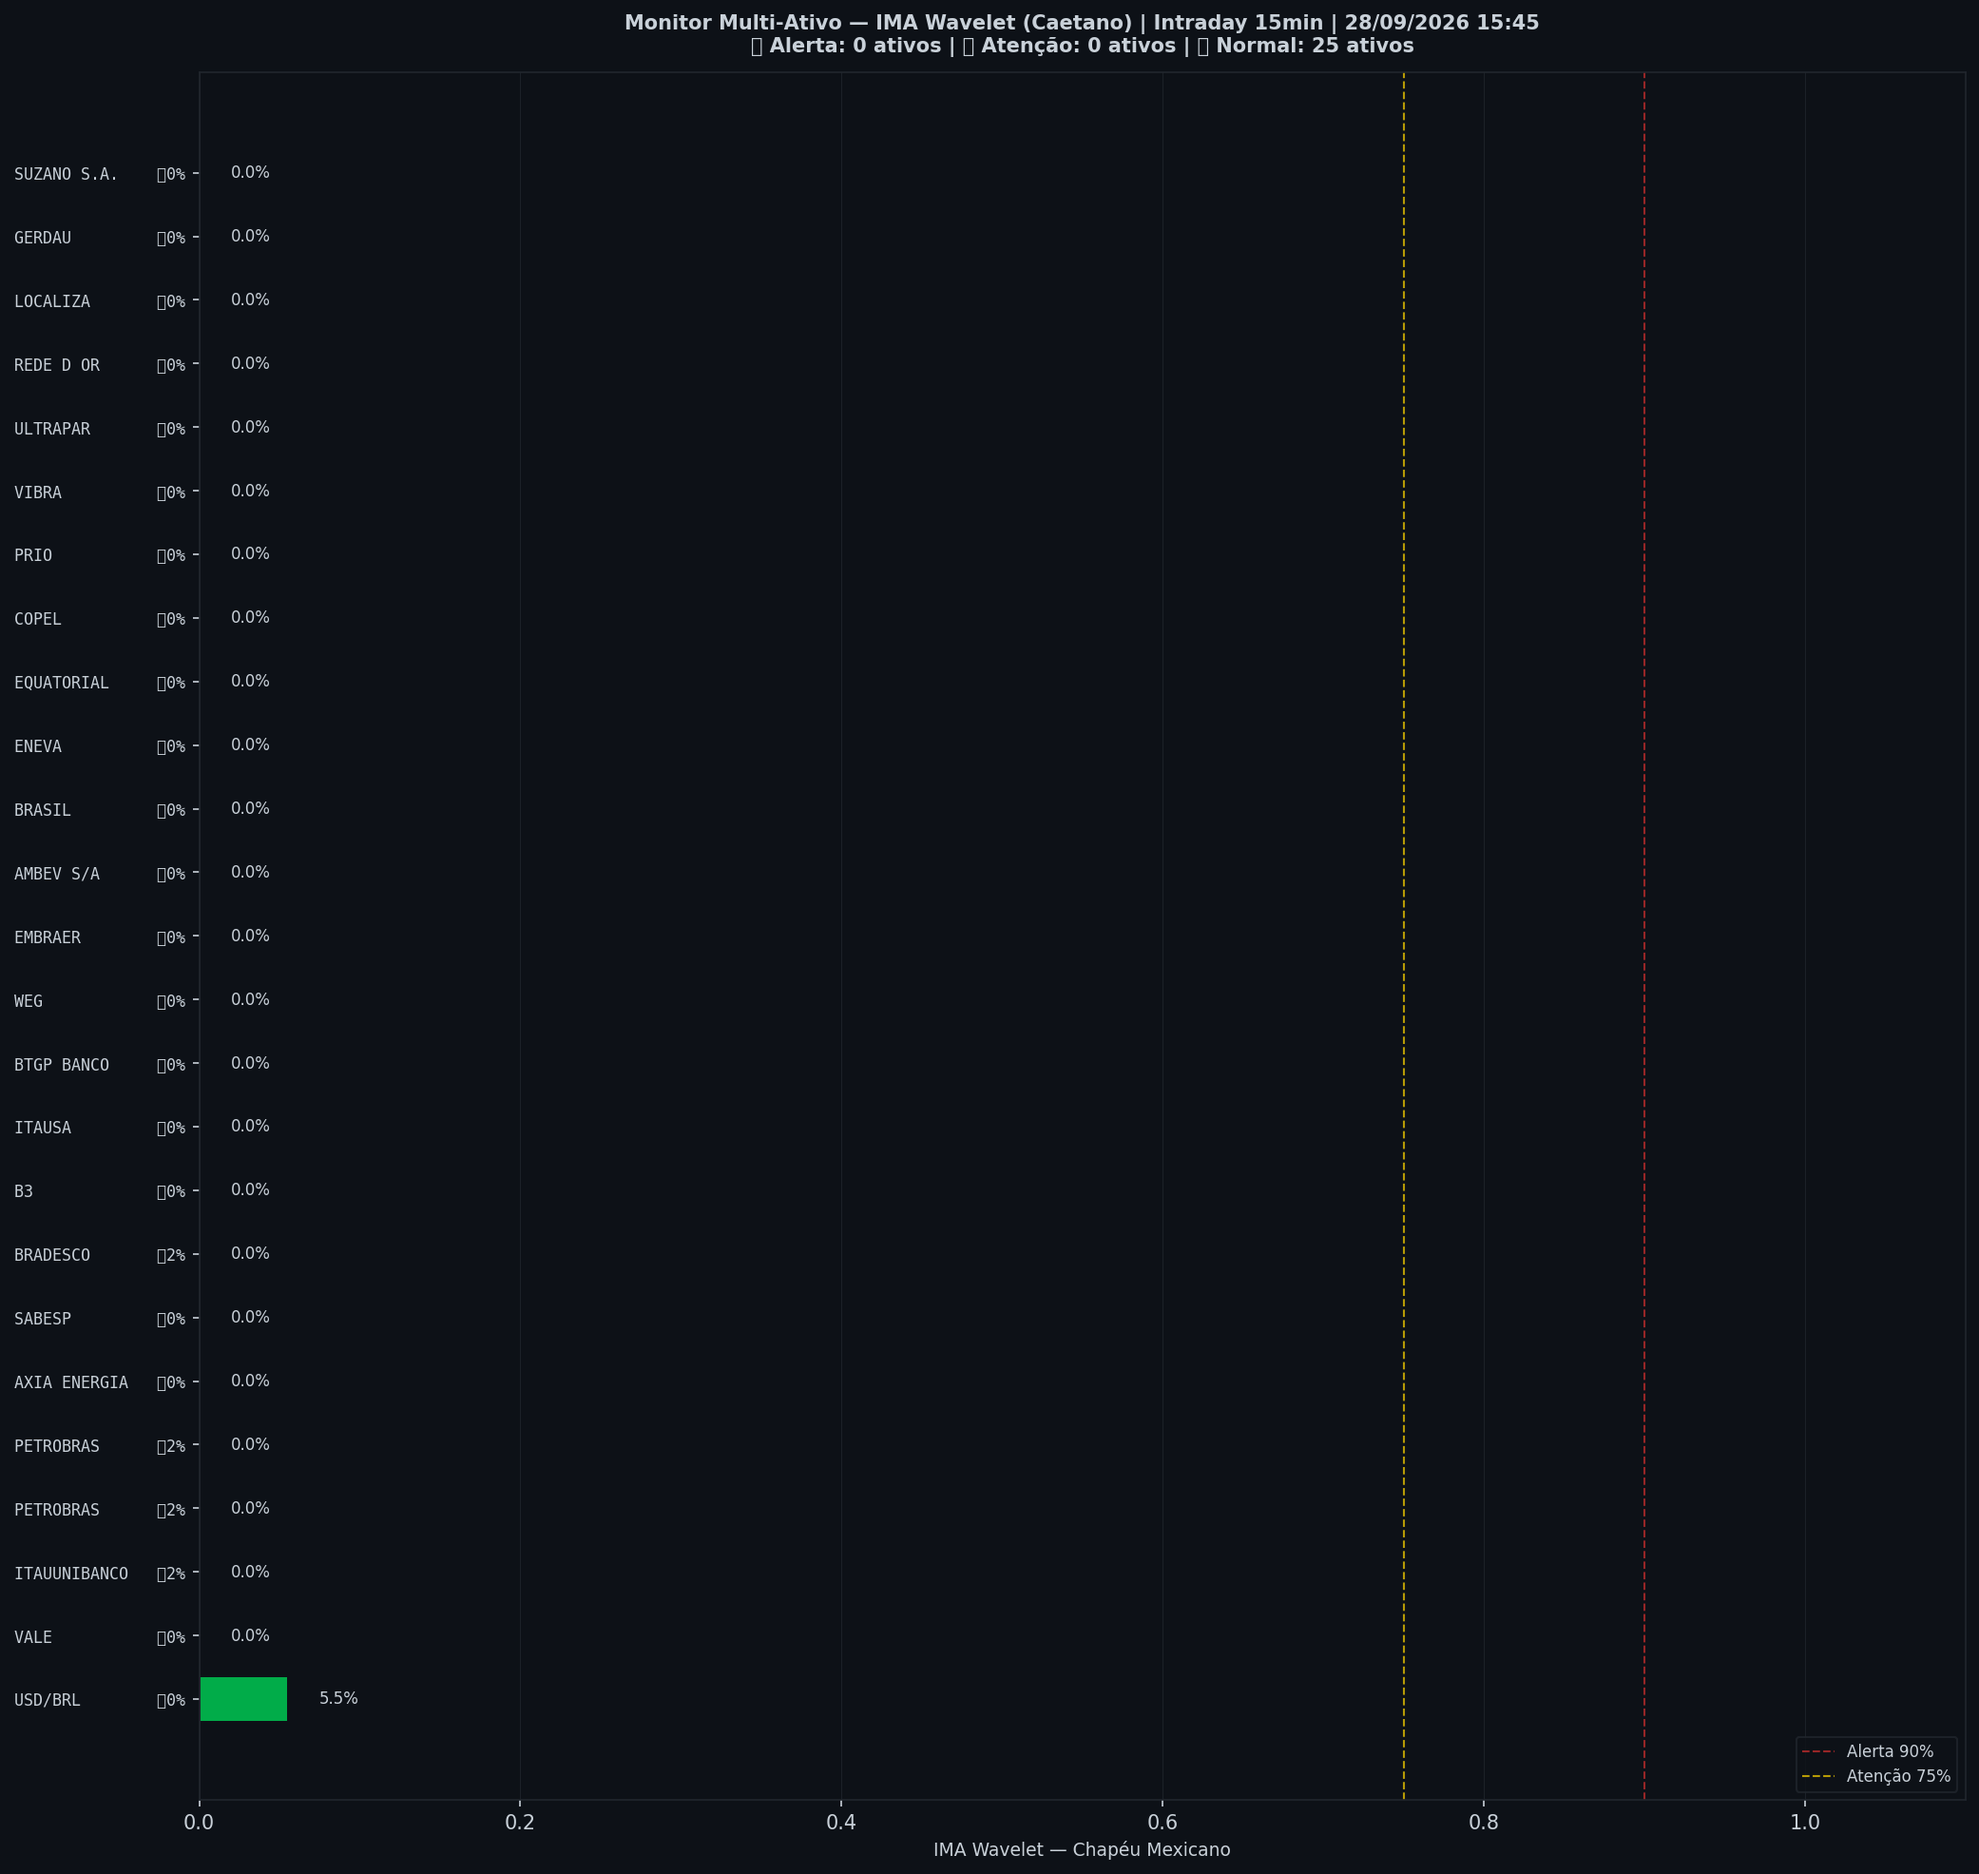
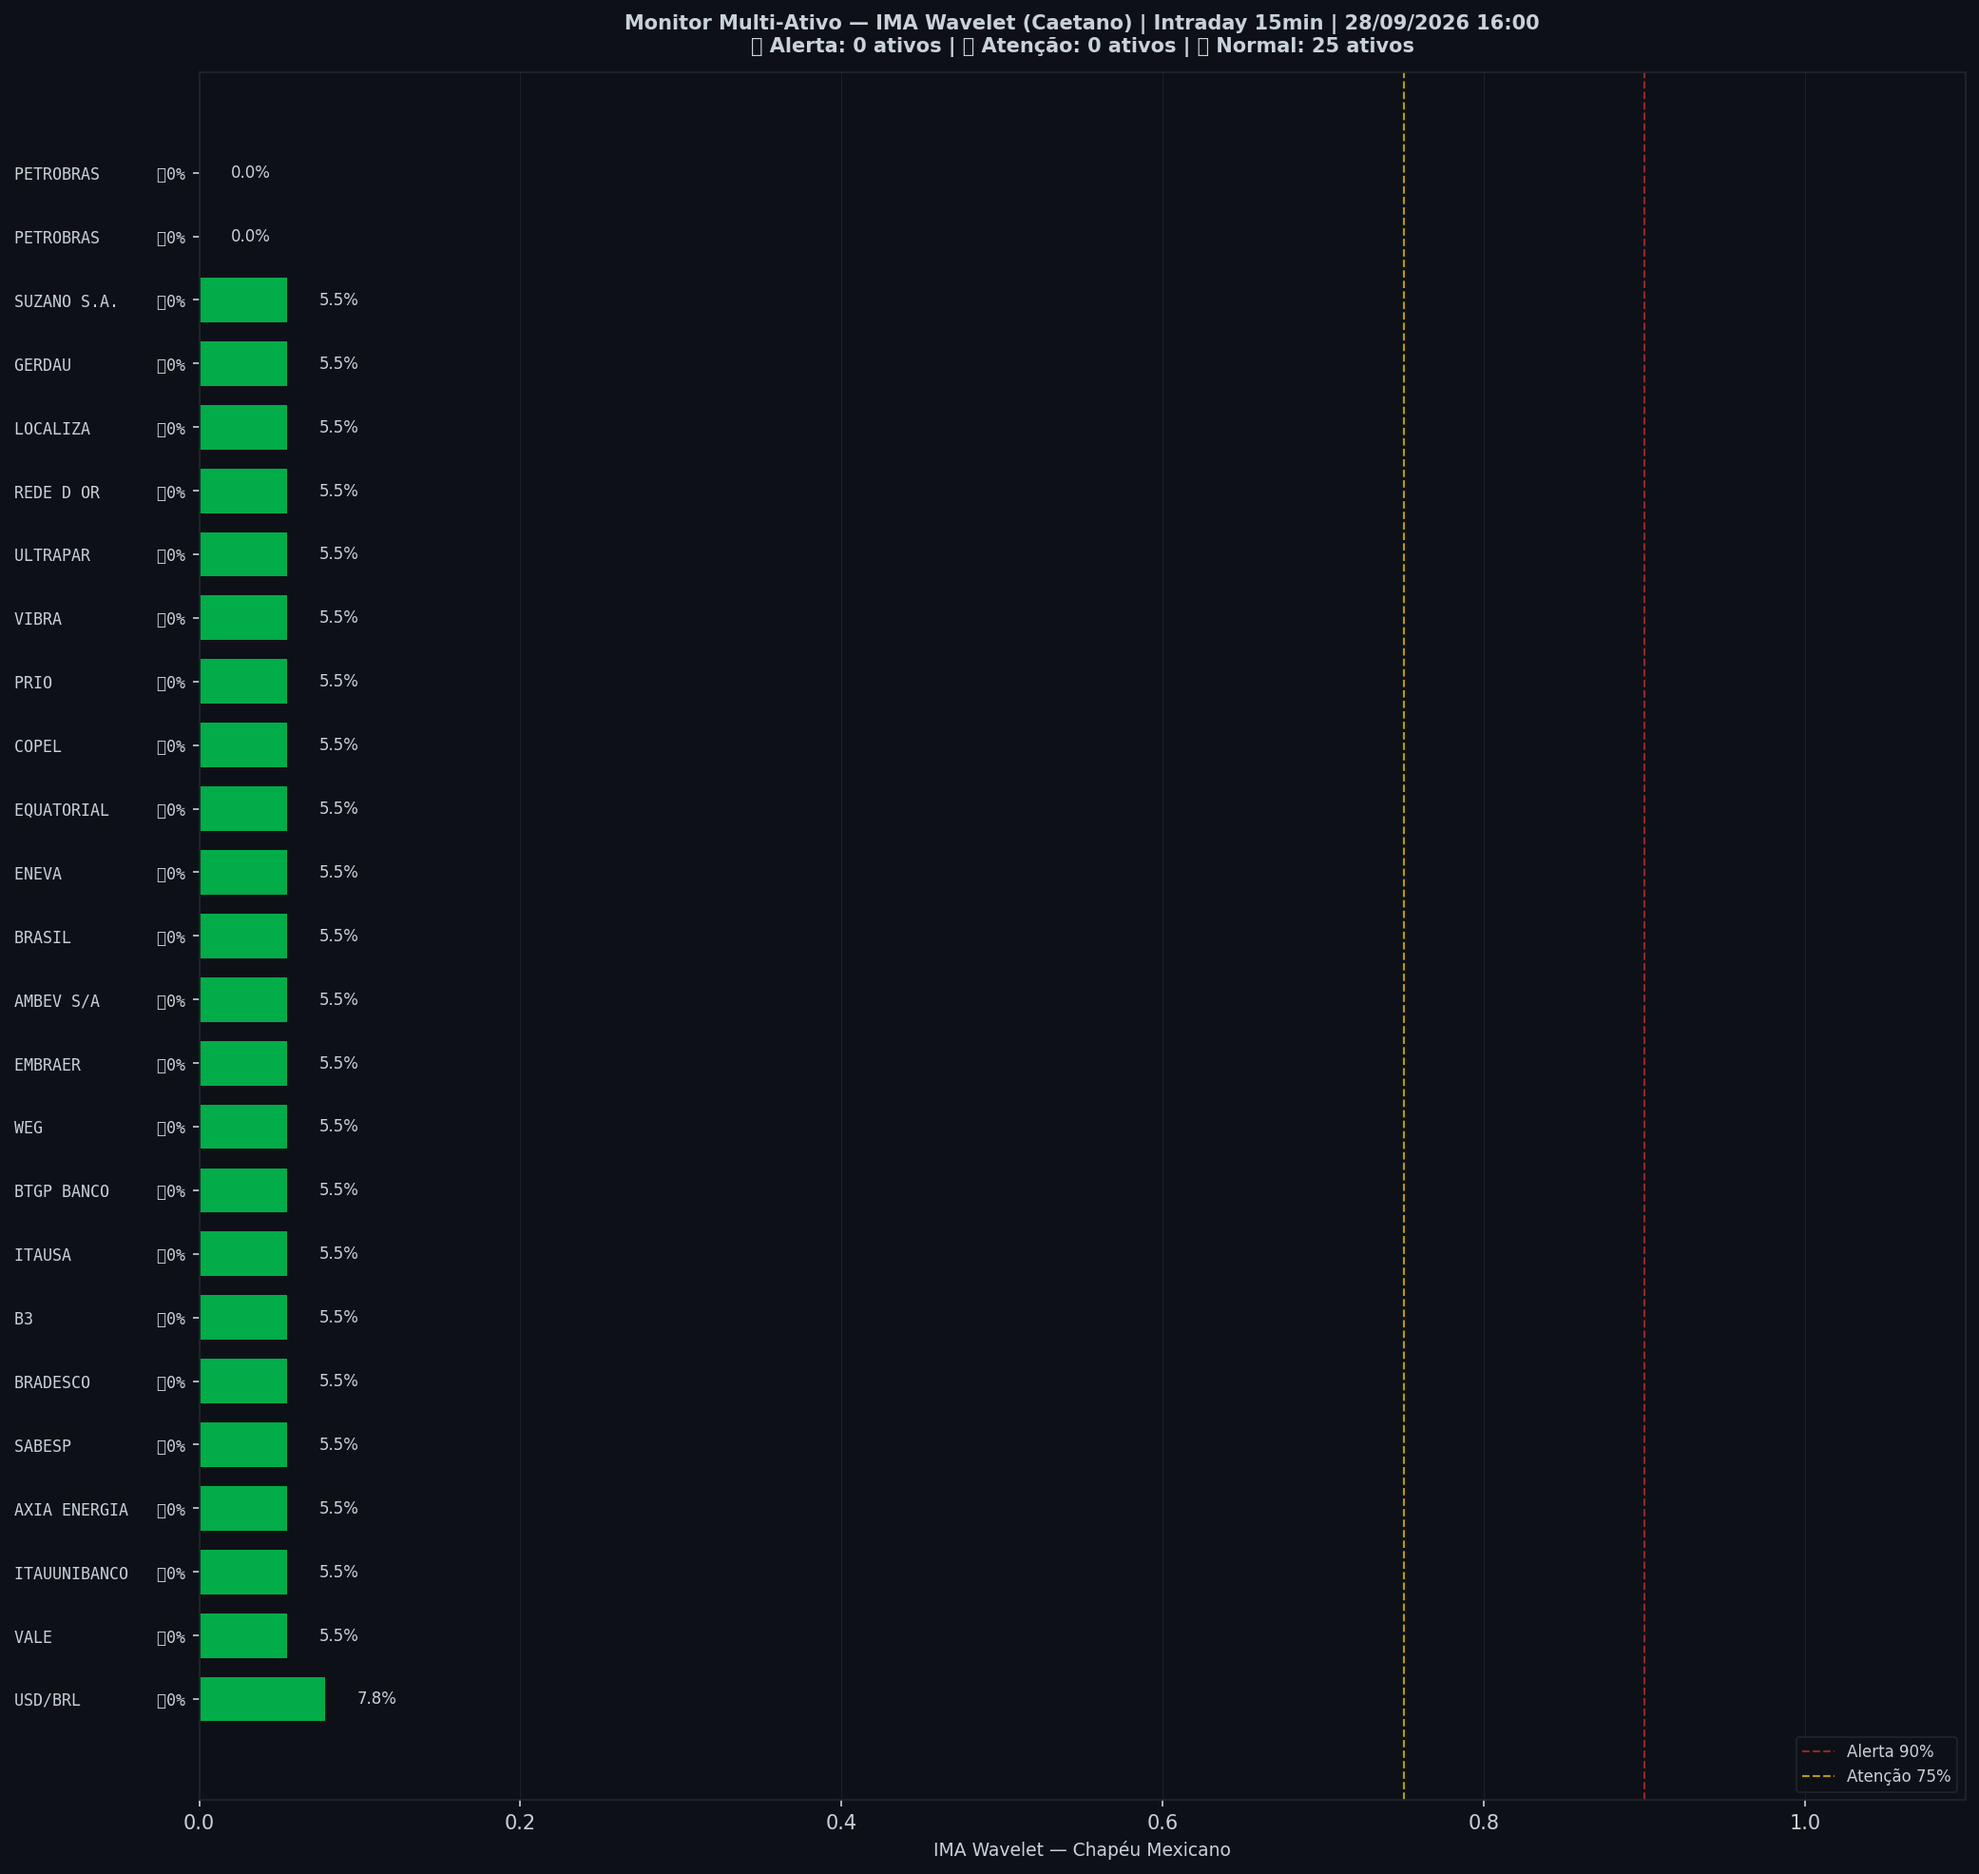
🤖 Auto: Sinal 28/09/2026 16:01

Changed region(s): [[0.0937, 0.1238, 0.1873, 0.9285], [0.0, 0.7118, 0.0624, 0.7428]]

diff --git a/content/intraday/2026-09-28.md b/content/intraday/2026-09-28.md
@@ -1,20 +1,20 @@
 ---
-title: "🟢 Intraday 28/09/2026 15:00 BRT — VERDE"
+title: "🟢 Intraday 28/09/2026 15:15 BRT — VERDE"
 date: 2026-09-28
 tags: [intraday]
 ---
 
-> [!success] 🟢 **VERDE** — Risco 0% · ＝ +0 p.p. vs leitura anterior
+> [!success] 🟢 **VERDE** — Risco 2% · ▲ +2 p.p. vs leitura anterior
 > `░░░░░░░░░░░░░░░░░░░░`
 > Mercado sem sinais relevantes de estresse.
 
 
 | Indicador | Valor |
 |---|---|
-| 🔴 ζ Crash — severidade da queda em curso | **0%** |
-| 🔵 ζ Entrada — estrutura de fundo | 5% |
+| 🔴 ζ Crash — severidade da queda em curso | **2%** |
+| 🔵 ζ Entrada — estrutura de fundo | 0% |
 | 🫧 LPPL DS-Confidence | 0% |
-| 📊 Ibovespa | 183.518 pts |
+| 📊 Ibovespa | 183.426 pts |
 
 ![Gráfico do sinal](../graficos/sinal_intraday.png)
 
@@ -22,6 +22,7 @@ tags: [intraday]
 
 | Data | Zona | Risco | IMA Crash | Entrada | LPPL |
 |---|---|---|---|---|---|
+| 2026-09-28 15:15 | 🟢 VERDE | **2%** | 2% | 0% | 0% |
 | 2026-09-28 15:00 | 🟢 VERDE | **0%** | 0% | 5% | 0% |
 | 2026-09-28 14:45 | 🟢 VERDE | **0%** | 0% | 7% | 0% |
 | 2026-09-28 14:30 | 🟢 VERDE | **0%** | 0% | 6% | 0% |
@@ -51,7 +52,6 @@ tags: [intraday]
 | 2026-09-25 15:30 | 🟢 VERDE | **0%** | 0% | 64% | 0% |
 | 2026-09-25 15:15 | 🟢 VERDE | **0%** | 0% | 67% | 0% |
 | 2026-09-25 15:00 | 🟢 VERDE | **0%** | 0% | 70% | 0% |
-| 2026-09-25 14:45 | 🟢 VERDE | **0%** | 0% | 70% | 0% |
 
 ## Monitor Multi-Ativo
 
@@ -59,35 +59,35 @@ tags: [intraday]
 
 | Zona | Ativo | Setor | IMA Crash | IMA Entrada |
 |---|---|---|---|---|
-| 🟢 | **USD/BRL** | Câmbio | 5.5% | 0.0% |
-| 🟢 | **VALE** | Mineração | 0.0% | 0.0% |
-| 🟢 | **ITAUUNIBANCO** | Financeiro | 0.0% | 1.6% |
-| 🟢 | **PETROBRAS** | Petróleo | 0.0% | 1.6% |
-| 🟢 | **PETROBRAS** | Petróleo | 0.0% | 1.6% |
-| 🟢 | **AXIA ENERGIA** | Energia | 0.0% | 0.0% |
-| 🟢 | **SABESP** | Saneamento | 0.0% | 0.0% |
-| 🟢 | **BRADESCO** | Financeiro | 0.0% | 1.6% |
-| 🟢 | **B3** | Financeiro | 0.0% | 0.0% |
-| 🟢 | **ITAUSA** | Financeiro | 0.0% | 0.0% |
-| 🟢 | **BTGP BANCO** | Financeiro | 0.0% | 0.0% |
-| 🟢 | **WEG** | Industrial | 0.0% | 0.0% |
-| 🟢 | **EMBRAER** | Outros | 0.0% | 0.0% |
-| 🟢 | **AMBEV S/A** | Consumo | 0.0% | 0.0% |
-| 🟢 | **BRASIL** | Financeiro | 0.0% | 0.0% |
-| 🟢 | **ENEVA** | Energia | 0.0% | 0.0% |
-| 🟢 | **EQUATORIAL** | Energia | 0.0% | 0.0% |
-| 🟢 | **COPEL** | Energia | 0.0% | 0.0% |
-| 🟢 | **PRIO** | Petróleo | 0.0% | 0.0% |
-| 🟢 | **VIBRA** | Energia | 0.0% | 0.0% |
-| 🟢 | **ULTRAPAR** | Outros | 0.0% | 0.0% |
-| 🟢 | **REDE D OR** | Saúde | 0.0% | 0.0% |
-| 🟢 | **LOCALIZA** | Aluguel | 0.0% | 0.0% |
-| 🟢 | **GERDAU** | Siderurgia | 0.0% | 0.0% |
-| 🟢 | **SUZANO S.A.** | Papel/Celulose | 0.0% | 0.0% |
+| 🟢 | **USD/BRL** | Câmbio | 7.8% | 0.0% |
+| 🟢 | **VALE** | Mineração | 5.5% | 0.0% |
+| 🟢 | **ITAUUNIBANCO** | Financeiro | 5.5% | 0.0% |
+| 🟢 | **AXIA ENERGIA** | Energia | 5.5% | 0.0% |
+| 🟢 | **SABESP** | Saneamento | 5.5% | 0.0% |
+| 🟢 | **BRADESCO** | Financeiro | 5.5% | 0.0% |
+| 🟢 | **B3** | Financeiro | 5.5% | 0.0% |
+| 🟢 | **ITAUSA** | Financeiro | 5.5% | 0.0% |
+| 🟢 | **BTGP BANCO** | Financeiro | 5.5% | 0.0% |
+| 🟢 | **WEG** | Industrial | 5.5% | 0.0% |
+| 🟢 | **EMBRAER** | Outros | 5.5% | 0.0% |
+| 🟢 | **AMBEV S/A** | Consumo | 5.5% | 0.0% |
+| 🟢 | **BRASIL** | Financeiro | 5.5% | 0.0% |
+| 🟢 | **ENEVA** | Energia | 5.5% | 0.0% |
+| 🟢 | **EQUATORIAL** | Energia | 5.5% | 0.0% |
+| 🟢 | **COPEL** | Energia | 5.5% | 0.0% |
+| 🟢 | **PRIO** | Petróleo | 5.5% | 0.0% |
+| 🟢 | **VIBRA** | Energia | 5.5% | 0.0% |
+| 🟢 | **ULTRAPAR** | Outros | 5.5% | 0.0% |
+| 🟢 | **REDE D OR** | Saúde | 5.5% | 0.0% |
+| 🟢 | **LOCALIZA** | Aluguel | 5.5% | 0.0% |
+| 🟢 | **GERDAU** | Siderurgia | 5.5% | 0.0% |
+| 🟢 | **SUZANO S.A.** | Papel/Celulose | 5.5% | 0.0% |
+| 🟢 | **PETROBRAS** | Petróleo | 0.0% | 0.0% |
+| 🟢 | **PETROBRAS** | Petróleo | 0.0% | 0.0% |
 
 ![Monitor multi-ativo](../graficos/multi_intraday.png)
 
-*Página atualizada em 28/09/2026 15:46 BRT (leitura da barra de 2026-09-28 15:00 BRT).*
+*Página atualizada em 28/09/2026 16:01 BRT (leitura da barra de 2026-09-28 15:15 BRT).*
 
 > [!info]- Como interpretar (clique para expandir)
 > - **ζ Crash**: fração dos coeficientes wavelet acima do corte (Caetano & Yoneyama 2009). Escala absoluta: ζ=0,90 = 90% dos coeficientes anômalos — historicamente, quedas com ζ≥0,90 foram mais fundas e mais longas. **Mede a severidade do movimento em curso, não prevê o início da queda.**

diff --git a/content/index.md b/content/index.md
@@ -8,19 +8,19 @@ tags: [home]
 
 Monitoramento diário e intraday do Ibovespa — **IMA Wavelet** (Prof. Marco Antonio Leonel Caetano, ITA/INSPER) + **LPPL DS-Confidence** (Prof. Didier Sornette, ETH-Zurich).
 
-*Última atualização: 28/09/2026 15:46 BRT · ^BVSP · Intraday 15min · v4*
+*Última atualização: 28/09/2026 16:01 BRT · ^BVSP · Intraday 15min · v4*
 
-> [!success] 🟢 **VERDE** — Risco 0% · ＝ +0 p.p. vs leitura anterior
+> [!success] 🟢 **VERDE** — Risco 2% · ▲ +2 p.p. vs leitura anterior
 > `░░░░░░░░░░░░░░░░░░░░`
 > Mercado sem sinais relevantes de estresse.
 
 
 | Indicador | Valor |
 |---|---|
-| 🔴 ζ Crash — severidade da queda em curso | **0%** |
-| 🔵 ζ Entrada — estrutura de fundo | 5% |
+| 🔴 ζ Crash — severidade da queda em curso | **2%** |
+| 🔵 ζ Entrada — estrutura de fundo | 0% |
 | 🫧 LPPL DS-Confidence | 0% |
-| 📊 Ibovespa | 183.518 pts |
+| 📊 Ibovespa | 183.426 pts |
 
 **Multi-ativo:** 0% em tensão (0🔴 0🟡 de 25 ativos)
 
@@ -32,7 +32,7 @@ Monitoramento diário e intraday do Ibovespa — **IMA Wavelet** (Prof. Marco An
 
 | Data | Zona | Risco | IMA | LPPL |
 |---|---|---|---|---|
-| [28 Sep 2026](diario/2026-09-28) | 🟢 VERDE | **0%** | 0% | 0% |
+| [28 Sep 2026](diario/2026-09-28) | 🟢 VERDE | **2%** | 2% | 0% |
 | [25 Sep 2026](diario/2026-09-25) | 🟢 VERDE | **0%** | 0% | 0% |
 
 ## Navegação

diff --git a/content/historico.md b/content/historico.md
@@ -7,6 +7,7 @@ tags: [historico]
 
 | Data | Modo | Zona | Risco | IMA | LPPL |
 |---|---|---|---|---|---|
+| 2026-09-28 15:15 | intraday | 🟢 VERDE | 2% | 2% | 0% |
 | 2026-09-28 15:00 | intraday | 🟢 VERDE | 0% | 0% | 0% |
 | 2026-09-28 14:45 | intraday | 🟢 VERDE | 0% | 0% | 0% |
 | 2026-09-28 14:30 | intraday | 🟢 VERDE | 0% | 0% | 0% |
